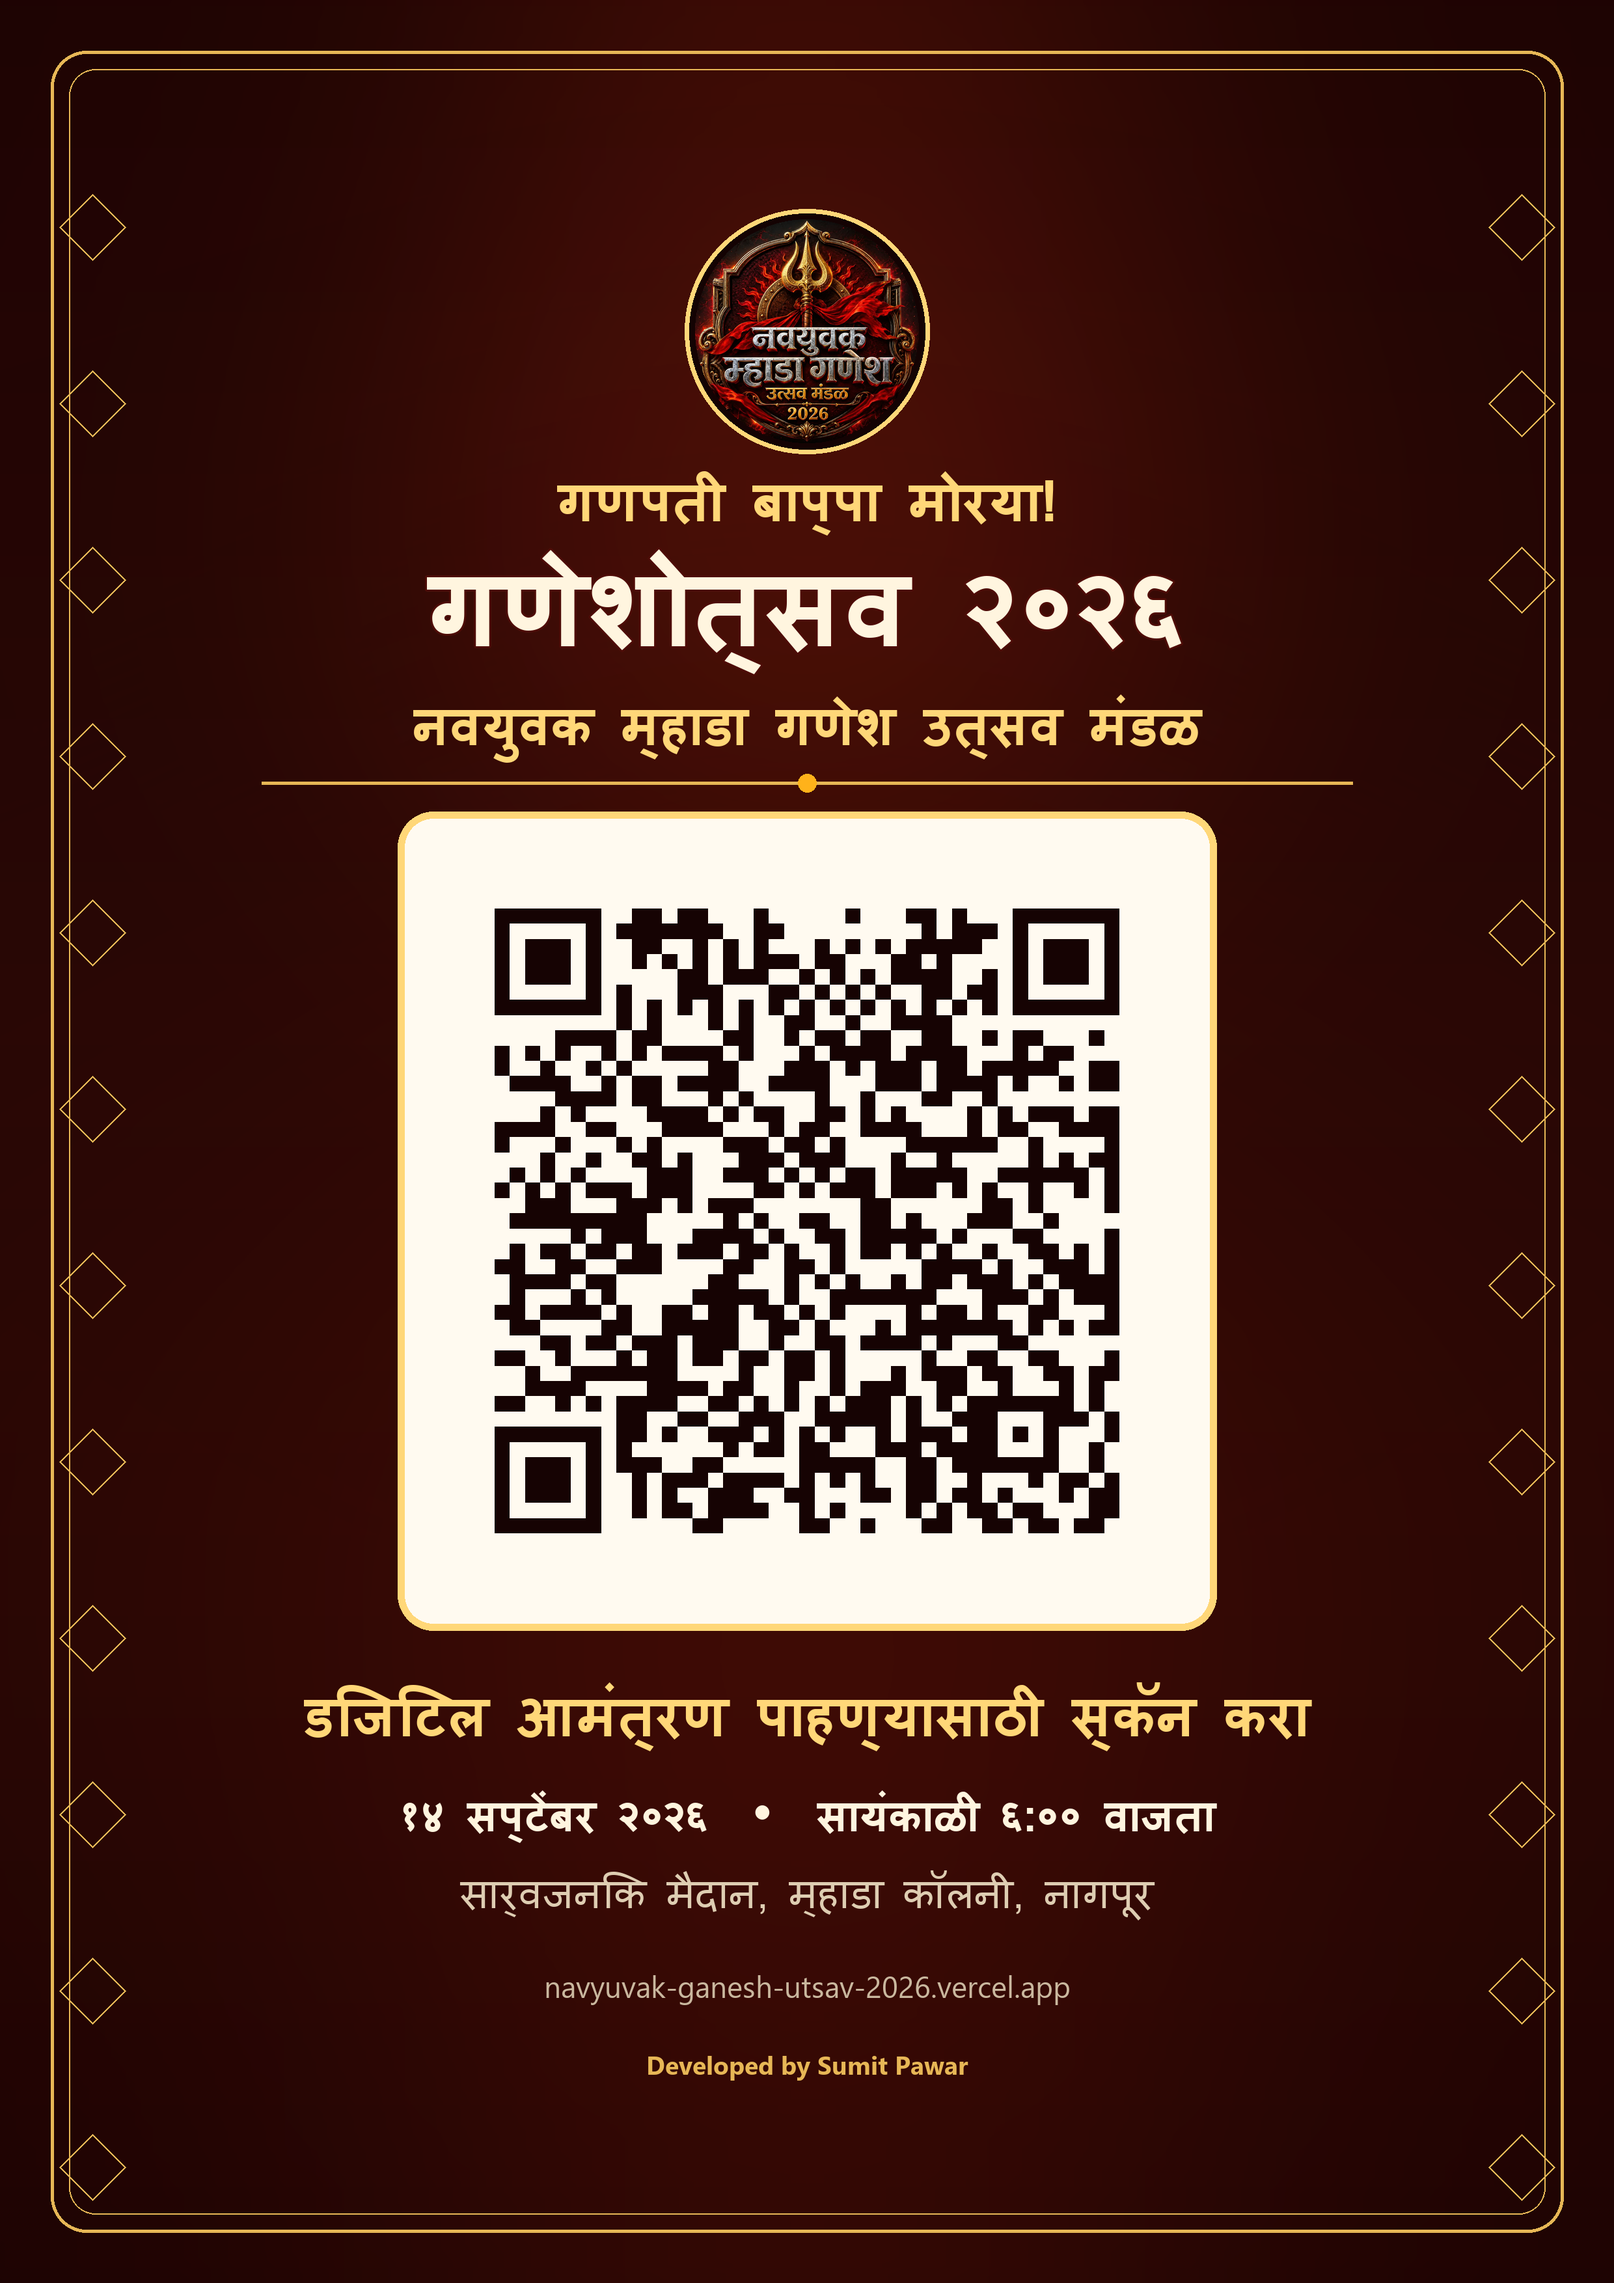
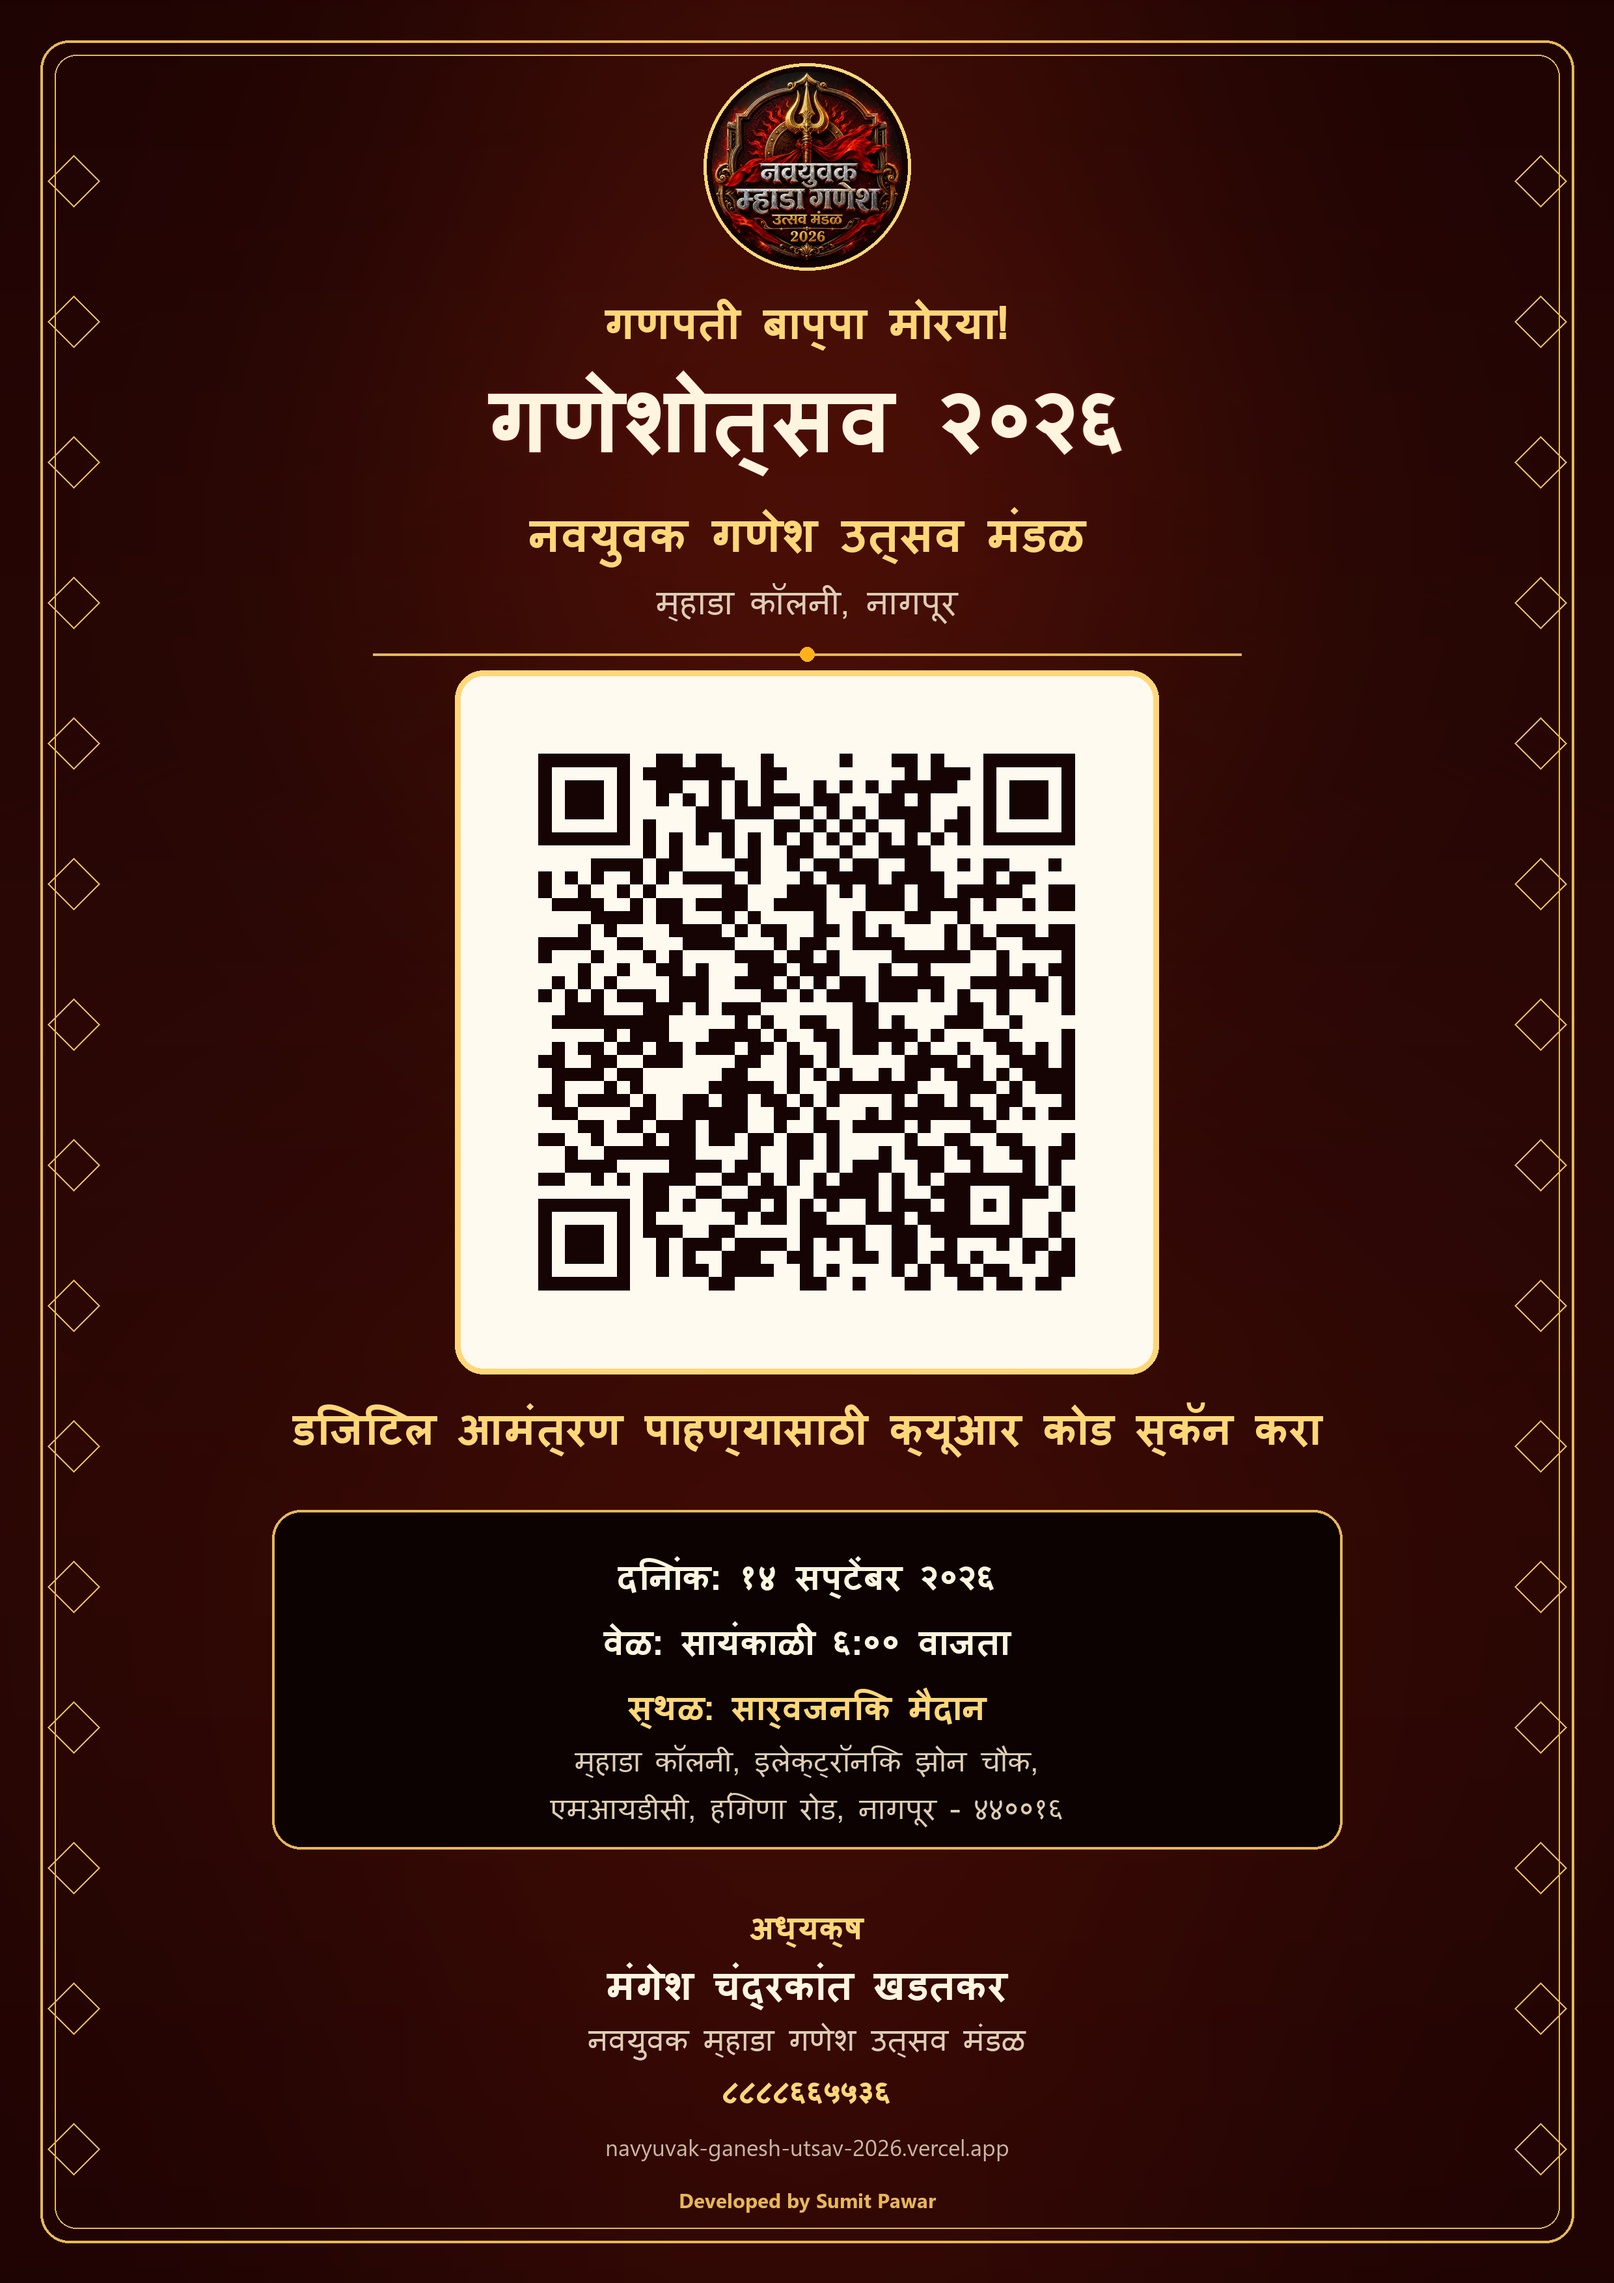
Perfect Marathi QR advertisement copy and layout

Changed region(s): [[0.031, 0.0, 0.9935, 0.9943]]

diff --git a/scripts/generate_qr_advertisement.py b/scripts/generate_qr_advertisement.py
@@ -12,6 +12,19 @@ PUBLIC = ROOT / "public"
 LOGO_PATH = PUBLIC / "assets" / "navyuvak-mandal-2026.jpeg"
 INVITATION_URL = "https://navyuvak-ganesh-utsav-2026.vercel.app"
 
+GREETING = "गणपती बाप्पा मोरया!"
+EVENT_TITLE = "गणेशोत्सव २०२६"
+MANDAL_NAME = "नवयुवक गणेश उत्सव मंडळ"
+LOCALITY = "म्हाडा कॉलनी, नागपूर"
+EVENT_DATE = "१४ सप्टेंबर २०२६"
+EVENT_TIME = "सायंकाळी ६:०० वाजता"
+VENUE_NAME = "सार्वजनिक मैदान"
+ADDRESS_LINE_1 = "म्हाडा कॉलनी, इलेक्ट्रॉनिक झोन चौक,"
+ADDRESS_LINE_2 = "एमआयडीसी, हिंगणा रोड, नागपूर – ४४००१६"
+PRESIDENT = "मंगेश चंद्रकांत खडतकर"
+PRESIDENT_MANDAL = "नवयुवक म्हाडा गणेश उत्सव मंडळ"
+PHONE = "८८८८६६५५३६"
+
 MARATHI_REGULAR = Path(r"C:\Windows\Fonts\mangal.ttf")
 MARATHI_BOLD = Path(r"C:\Windows\Fonts\mangalb.ttf")
 LATIN_REGULAR = Path(r"C:\Windows\Fonts\segoeui.ttf")
@@ -130,8 +143,10 @@ def draw_centered(
 
 
 def render_poster(width: int, height: int, output_path: Path, dpi: int) -> None:
-    scale = width / 1080
-    design_height = 1350 * scale
+    # The master layout is a 9:16 social poster. The same balanced layout is
+    # centred and scaled for the A4 print export without stretching any asset.
+    scale = min(width / 1080, height / 1920)
+    design_height = 1920 * scale
     offset_y = round((height - design_height) / 2)
 
     def sx(value: float) -> int:
@@ -144,9 +159,9 @@ def render_poster(width: int, height: int, output_path: Path, dpi: int) -> None:
     add_background(canvas, scale)
     draw = ImageDraw.Draw(canvas, "RGBA")
 
-    logo_size = sx(150)
+    logo_size = sx(160)
     logo_x = (width - logo_size) // 2
-    logo_y = sy(58)
+    logo_y = sy(60)
     draw.ellipse(
         (logo_x - sx(7), logo_y - sx(7), logo_x + logo_size + sx(7), logo_y + logo_size + sx(7)),
         fill=(20, 3, 3, 245),
@@ -158,30 +173,36 @@ def render_poster(width: int, height: int, output_path: Path, dpi: int) -> None:
     ivory = (255, 245, 223, 255)
     gold = (255, 215, 120, 255)
     muted = (222, 205, 178, 255)
-    max_text_width = width - sx(130)
+    max_text_width = sx(900)
 
-    draw_centered(draw, "गणपती बाप्पा मोरया!", sy(245), MARATHI_BOLD, sx(37), gold, max_text_width)
+    draw_centered(draw, GREETING, sy(270), MARATHI_BOLD, sx(38), gold, max_text_width)
     draw_centered(
         draw,
-        "गणेशोत्सव २०२६",
-        sy(315),
+        EVENT_TITLE,
+        sy(350),
         MARATHI_BOLD,
-        sx(72),
+        sx(76),
         ivory,
         max_text_width,
         stroke_width=max(1, sx(1.4)),
         stroke_fill=(77, 12, 7, 255),
     )
-    draw_centered(draw, "नवयुवक म्हाडा गणेश उत्सव मंडळ", sy(395), MARATHI_BOLD, sx(36), gold, max_text_width)
+    draw_centered(draw, MANDAL_NAME, sy(448), MARATHI_BOLD, sx(40), gold, max_text_width)
+    draw_centered(draw, LOCALITY, sy(505), MARATHI_REGULAR, sx(28), muted, max_text_width)
 
-    line_y = sy(435)
-    draw.line((sx(175), line_y, width - sx(175), line_y), fill=(231, 183, 86, 115), width=max(1, sx(2)))
+    line_y = sy(550)
+    line_half_width = sx(365)
+    draw.line(
+        (width // 2 - line_half_width, line_y, width // 2 + line_half_width, line_y),
+        fill=(231, 183, 86, 115),
+        width=max(1, sx(2)),
+    )
     draw.ellipse((width // 2 - sx(6), line_y - sx(6), width // 2 + sx(6), line_y + sx(6)), fill=(255, 178, 26, 220))
 
-    qr_size = sx(500)
+    qr_size = sx(539)
     qr_x = (width - qr_size) // 2
-    qr_y = sy(478)
-    padding = sx(24)
+    qr_y = sy(590)
+    padding = sx(26)
     draw.rounded_rectangle(
         (qr_x - padding, qr_y - padding, qr_x + qr_size + padding, qr_y + qr_size + padding),
         radius=sx(24),
@@ -194,44 +215,90 @@ def render_poster(width: int, height: int, output_path: Path, dpi: int) -> None:
 
     draw_centered(
         draw,
-        "डिजिटल आमंत्रण पाहण्यासाठी स्कॅन करा",
-        sy(1058),
+        "डिजिटल आमंत्रण पाहण्यासाठी क्यूआर कोड स्कॅन करा",
+        sy(1200),
         MARATHI_BOLD,
-        sx(38),
+        sx(37),
         gold,
         max_text_width,
     )
+
+    card_left = width // 2 - sx(450)
+    card_right = width // 2 + sx(450)
+    card_top = sy(1270)
+    card_bottom = sy(1555)
+    draw.rounded_rectangle(
+        (card_left, card_top, card_right, card_bottom),
+        radius=sx(24),
+        fill=(13, 2, 2, 185),
+        outline=(231, 183, 86, 125),
+        width=max(1, sx(2)),
+    )
+
     draw_centered(
         draw,
-        "१४ सप्टेंबर २०२६  •  सायंकाळी ६:०० वाजता",
-        sy(1125),
+        f"दिनांक: {EVENT_DATE}",
+        sy(1325),
+        MARATHI_BOLD,
+        sx(30),
+        ivory,
+        sx(820),
+    )
+    draw_centered(
+        draw,
+        f"वेळ: {EVENT_TIME}",
+        sy(1380),
+        MARATHI_BOLD,
+        sx(30),
+        ivory,
+        sx(820),
+    )
+    draw_centered(
+        draw,
+        f"स्थळ: {VENUE_NAME}",
+        sy(1435),
         MARATHI_BOLD,
         sx(29),
-        ivory,
-        max_text_width,
+        gold,
+        sx(820),
     )
     draw_centered(
         draw,
-        "सार्वजनिक मैदान, म्हाडा कॉलनी, नागपूर",
-        sy(1177),
+        ADDRESS_LINE_1,
+        sy(1480),
         MARATHI_REGULAR,
-        sx(27),
+        sx(24),
         muted,
-        max_text_width,
+        sx(820),
     )
+    draw_centered(
+        draw,
+        ADDRESS_LINE_2,
+        sy(1520),
+        MARATHI_REGULAR,
+        sx(24),
+        muted,
+        sx(820),
+    )
+
+    draw_centered(draw, "अध्यक्ष", sy(1620), MARATHI_BOLD, sx(27), gold, max_text_width)
+    draw_centered(draw, PRESIDENT, sy(1668), MARATHI_BOLD, sx(34), ivory, max_text_width)
+    draw_centered(draw, PRESIDENT_MANDAL, sy(1714), MARATHI_REGULAR, sx(25), muted, max_text_width)
+    draw_centered(draw, PHONE, sy(1758), MARATHI_BOLD, sx(27), gold, max_text_width)
+
     draw_centered(
         draw,
         "navyuvak-ganesh-utsav-2026.vercel.app",
-        sy(1240),
+        sy(1805),
         LATIN_REGULAR,
-        sx(20),
+        sx(19),
         (202, 184, 159, 255),
         max_text_width,
     )
     draw_centered(
         draw,
         "Developed by Sumit Pawar",
-        sy(1292),
+        sy(1850),
         LATIN_BOLD,
         sx(17),
         (231, 183, 86, 210),
@@ -244,7 +311,7 @@ def render_poster(width: int, height: int, output_path: Path, dpi: int) -> None:
 def main() -> None:
     qr_image = make_qr()
     qr_image.save(RAW_QR_PATH, dpi=(300, 300), optimize=True)
-    render_poster(1080, 1350, SOCIAL_POSTER_PATH, 144)
+    render_poster(1080, 1920, SOCIAL_POSTER_PATH, 144)
     render_poster(2480, 3508, PRINT_POSTER_PATH, 300)
     print(RAW_QR_PATH)
     print(SOCIAL_POSTER_PATH)
